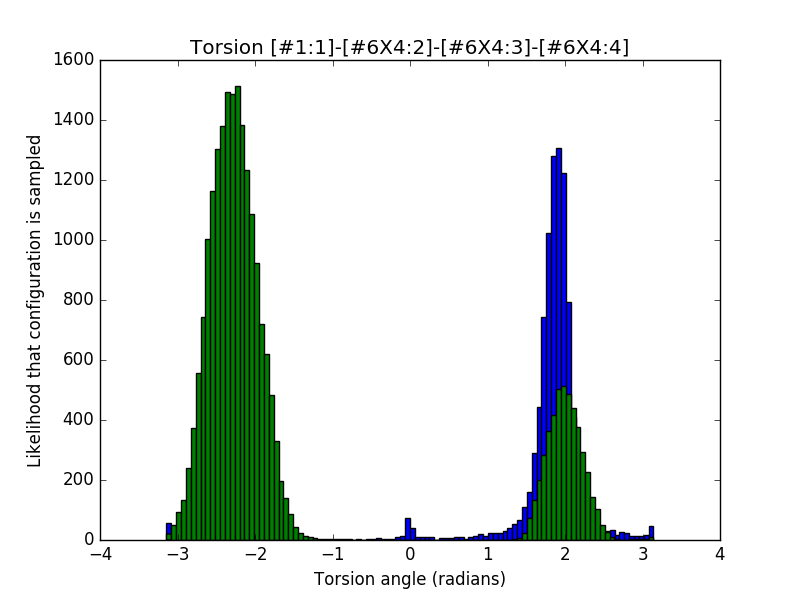
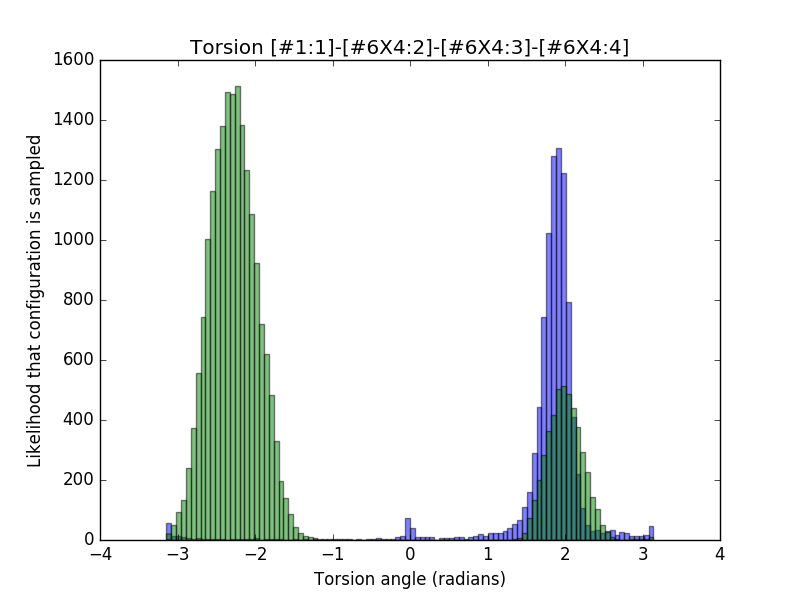
Comparison of torsions by SMIRKS for r48 and r51

Changed region(s): [[0.1875, 0.15, 0.4375, 0.9], [0.4688, 0.24, 0.8438, 0.9]]

diff --git a/single-molecule-property-generation/least_squares_fit_example.py b/single-molecule-property-generation/least_squares_fit_example.py
@@ -435,24 +435,24 @@ torsion_r51_c = torstimeser_r51[11]
 num_bins = 100
 
 plt.figure()
-plt.hist(torsion_r48_a,num_bins,label='AlkEthOH_r48')
-plt.hist(torsion_r51_a,num_bins,label='AlkEthOh_r51')
+plt.hist(torsion_r48_a,num_bins,alpha=0.5,label='AlkEthOH_r48')
+plt.hist(torsion_r51_a,num_bins,alpha=0.5,label='AlkEthOh_r51')
 plt.ylabel('Likelihood that configuration is sampled')
 plt.xlabel('Torsion angle (radians)')
 plt.title('Torsion [#6X4:1]-[#6X4:2]-[#6X4:3]-[#6X4:4]')
 plt.savefig('torsion_histograms/Torsion_likelihood_r48_r51_comp_tors_[#6X4:1]-[#6X4:2]-[#6X4:3]-[#6X4:4].png')
 
 plt.figure()
-plt.hist(torsion_r48_b,num_bins,label='AlkEthOH_r48')
-plt.hist(torsion_r51_b,num_bins,label='AlkEthOh_r51')
+plt.hist(torsion_r48_b,num_bins,alpha=0.5,label='AlkEthOH_r48')
+plt.hist(torsion_r51_b,num_bins,alpha=0.5,label='AlkEthOh_r51')
 plt.ylabel('Likelihood that configuration is sampled')
 plt.xlabel('Torsion angle (radians)')
 plt.title('Torsion [#1:1]-[#6X4:2]-[#6X4:3]-[#6X4:4]')
 plt.savefig('torsion_histograms/Torsion_likelihood_r48_r51_comp_tors_[#1:1]-[#6X4:2]-[#6X4:3]-[#6X4:4].png')
 
 plt.figure()
-plt.hist(torsion_r48_c,num_bins,label='AlkEthOH_r48')
-plt.hist(torsion_r51_c,num_bins,label='AlkEthOh_r51')
+plt.hist(torsion_r48_c,num_bins,alpha=0.5,label='AlkEthOH_r48')
+plt.hist(torsion_r51_c,num_bins,alpha=0.5,label='AlkEthOh_r51')
 plt.ylabel('Likelihood that configuration is sampled')
 plt.xlabel('Torsion angle (radians)')
 plt.title('Torsion [#1:1]-[#6X4:2]-[#6X4:3]-[#1:4]')
